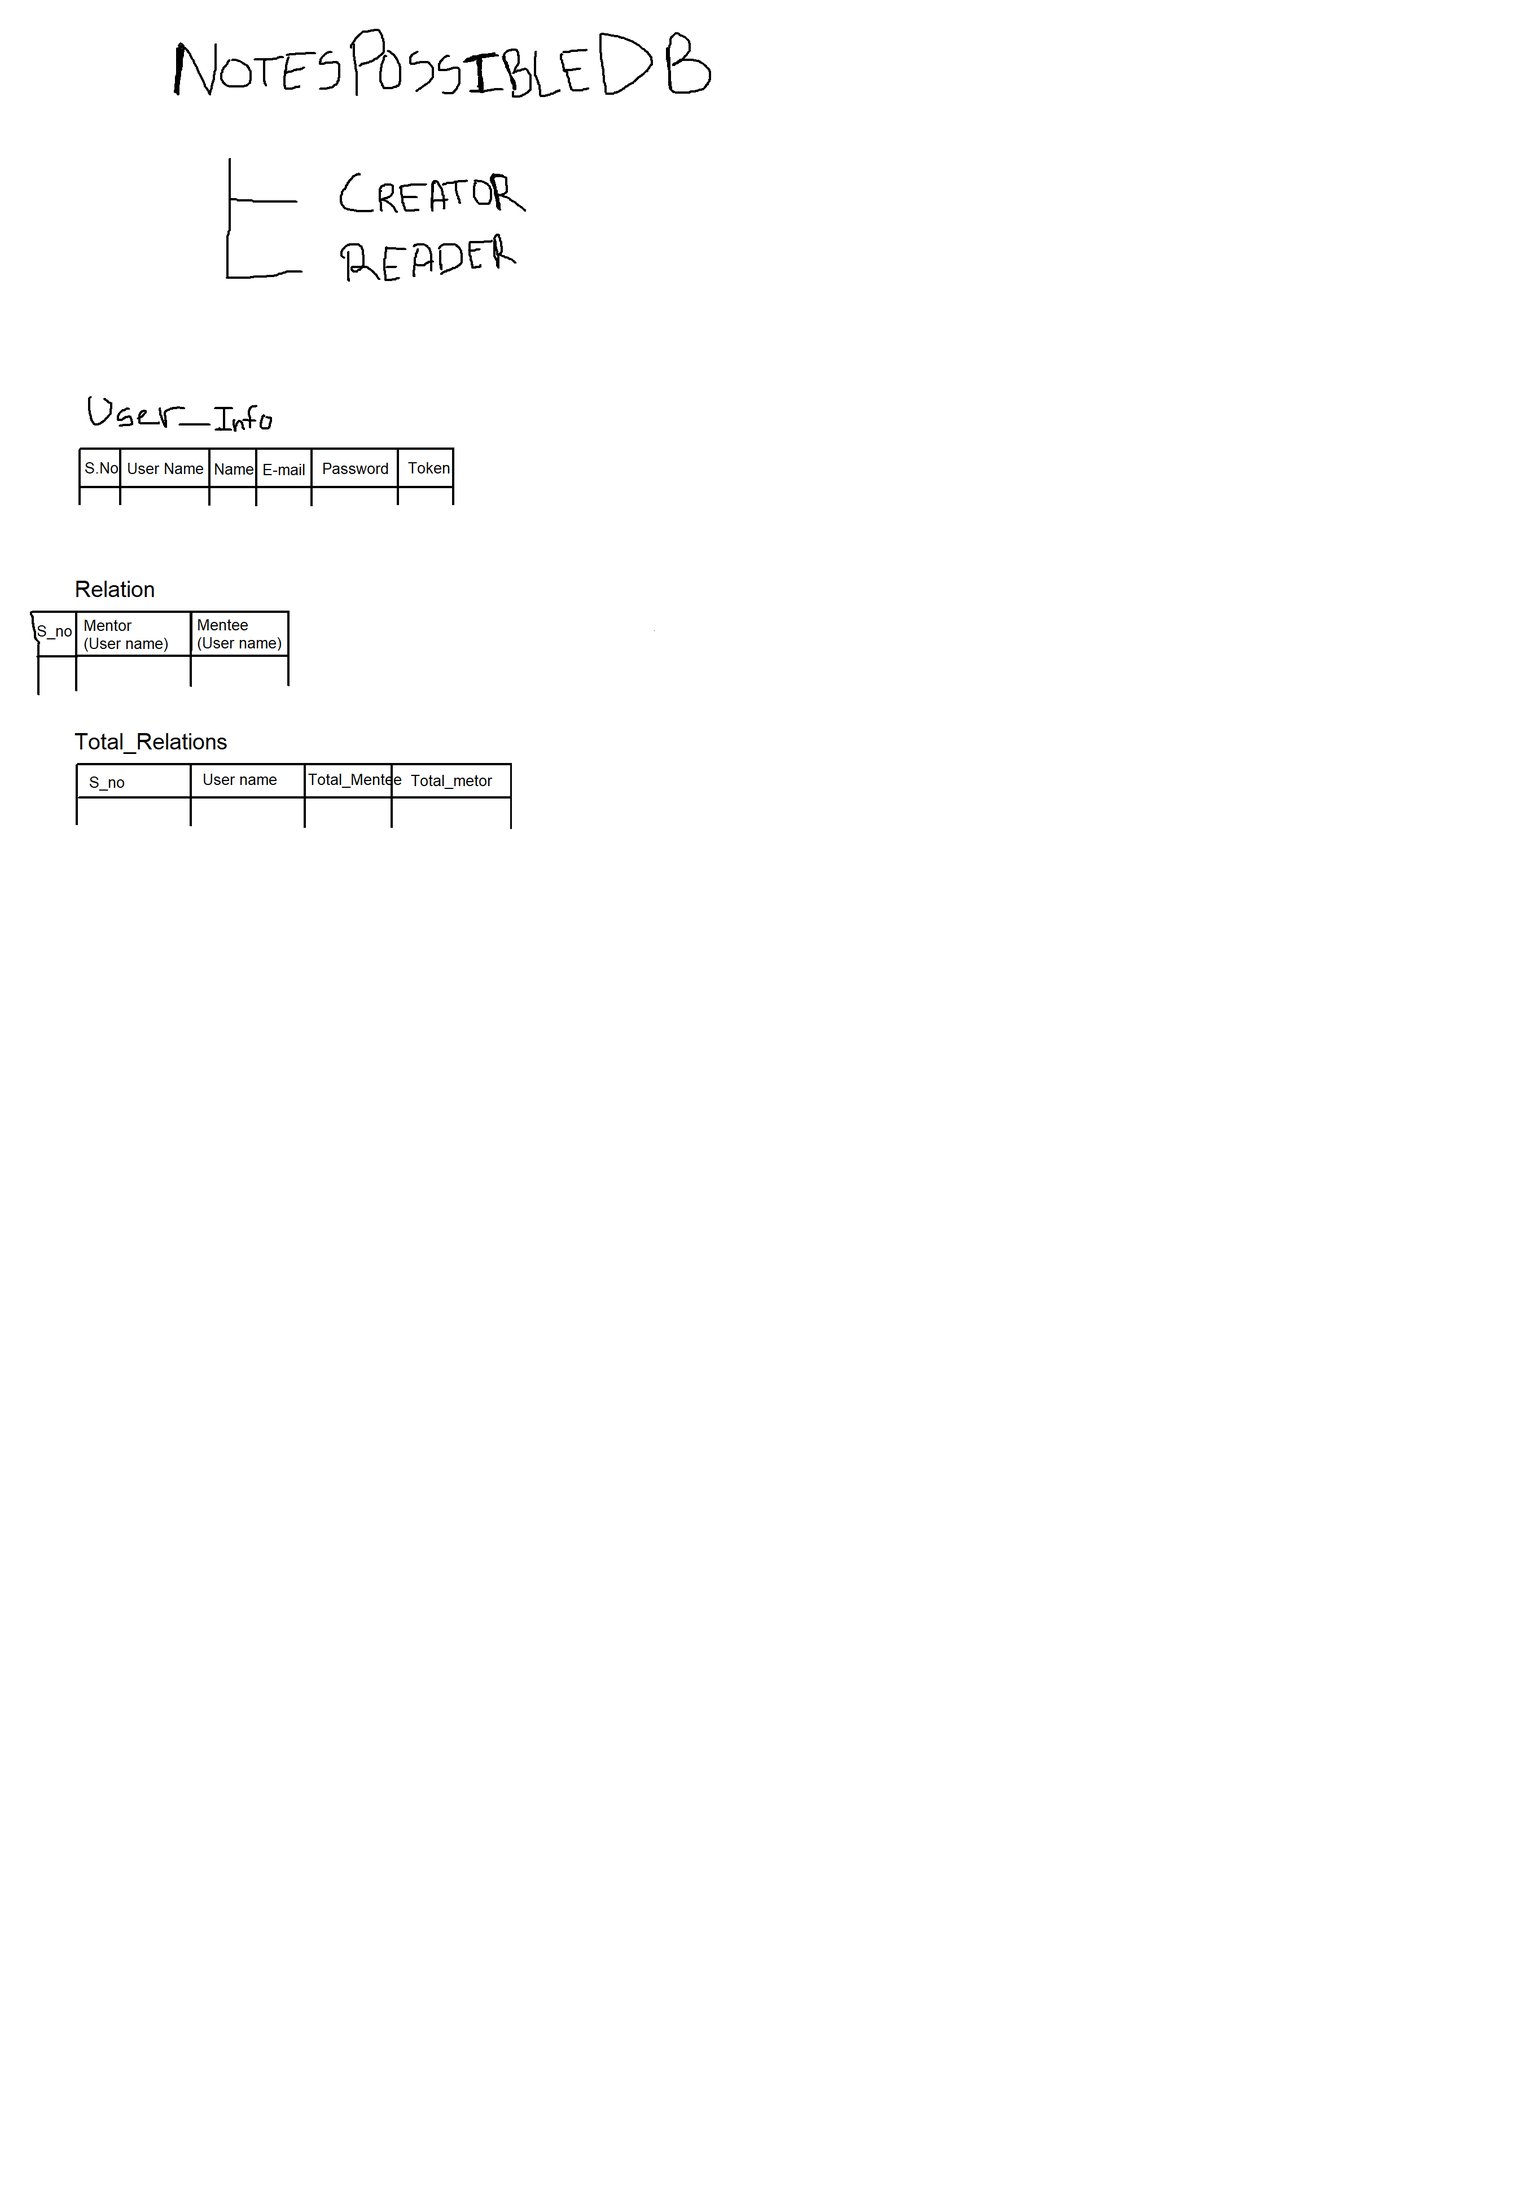
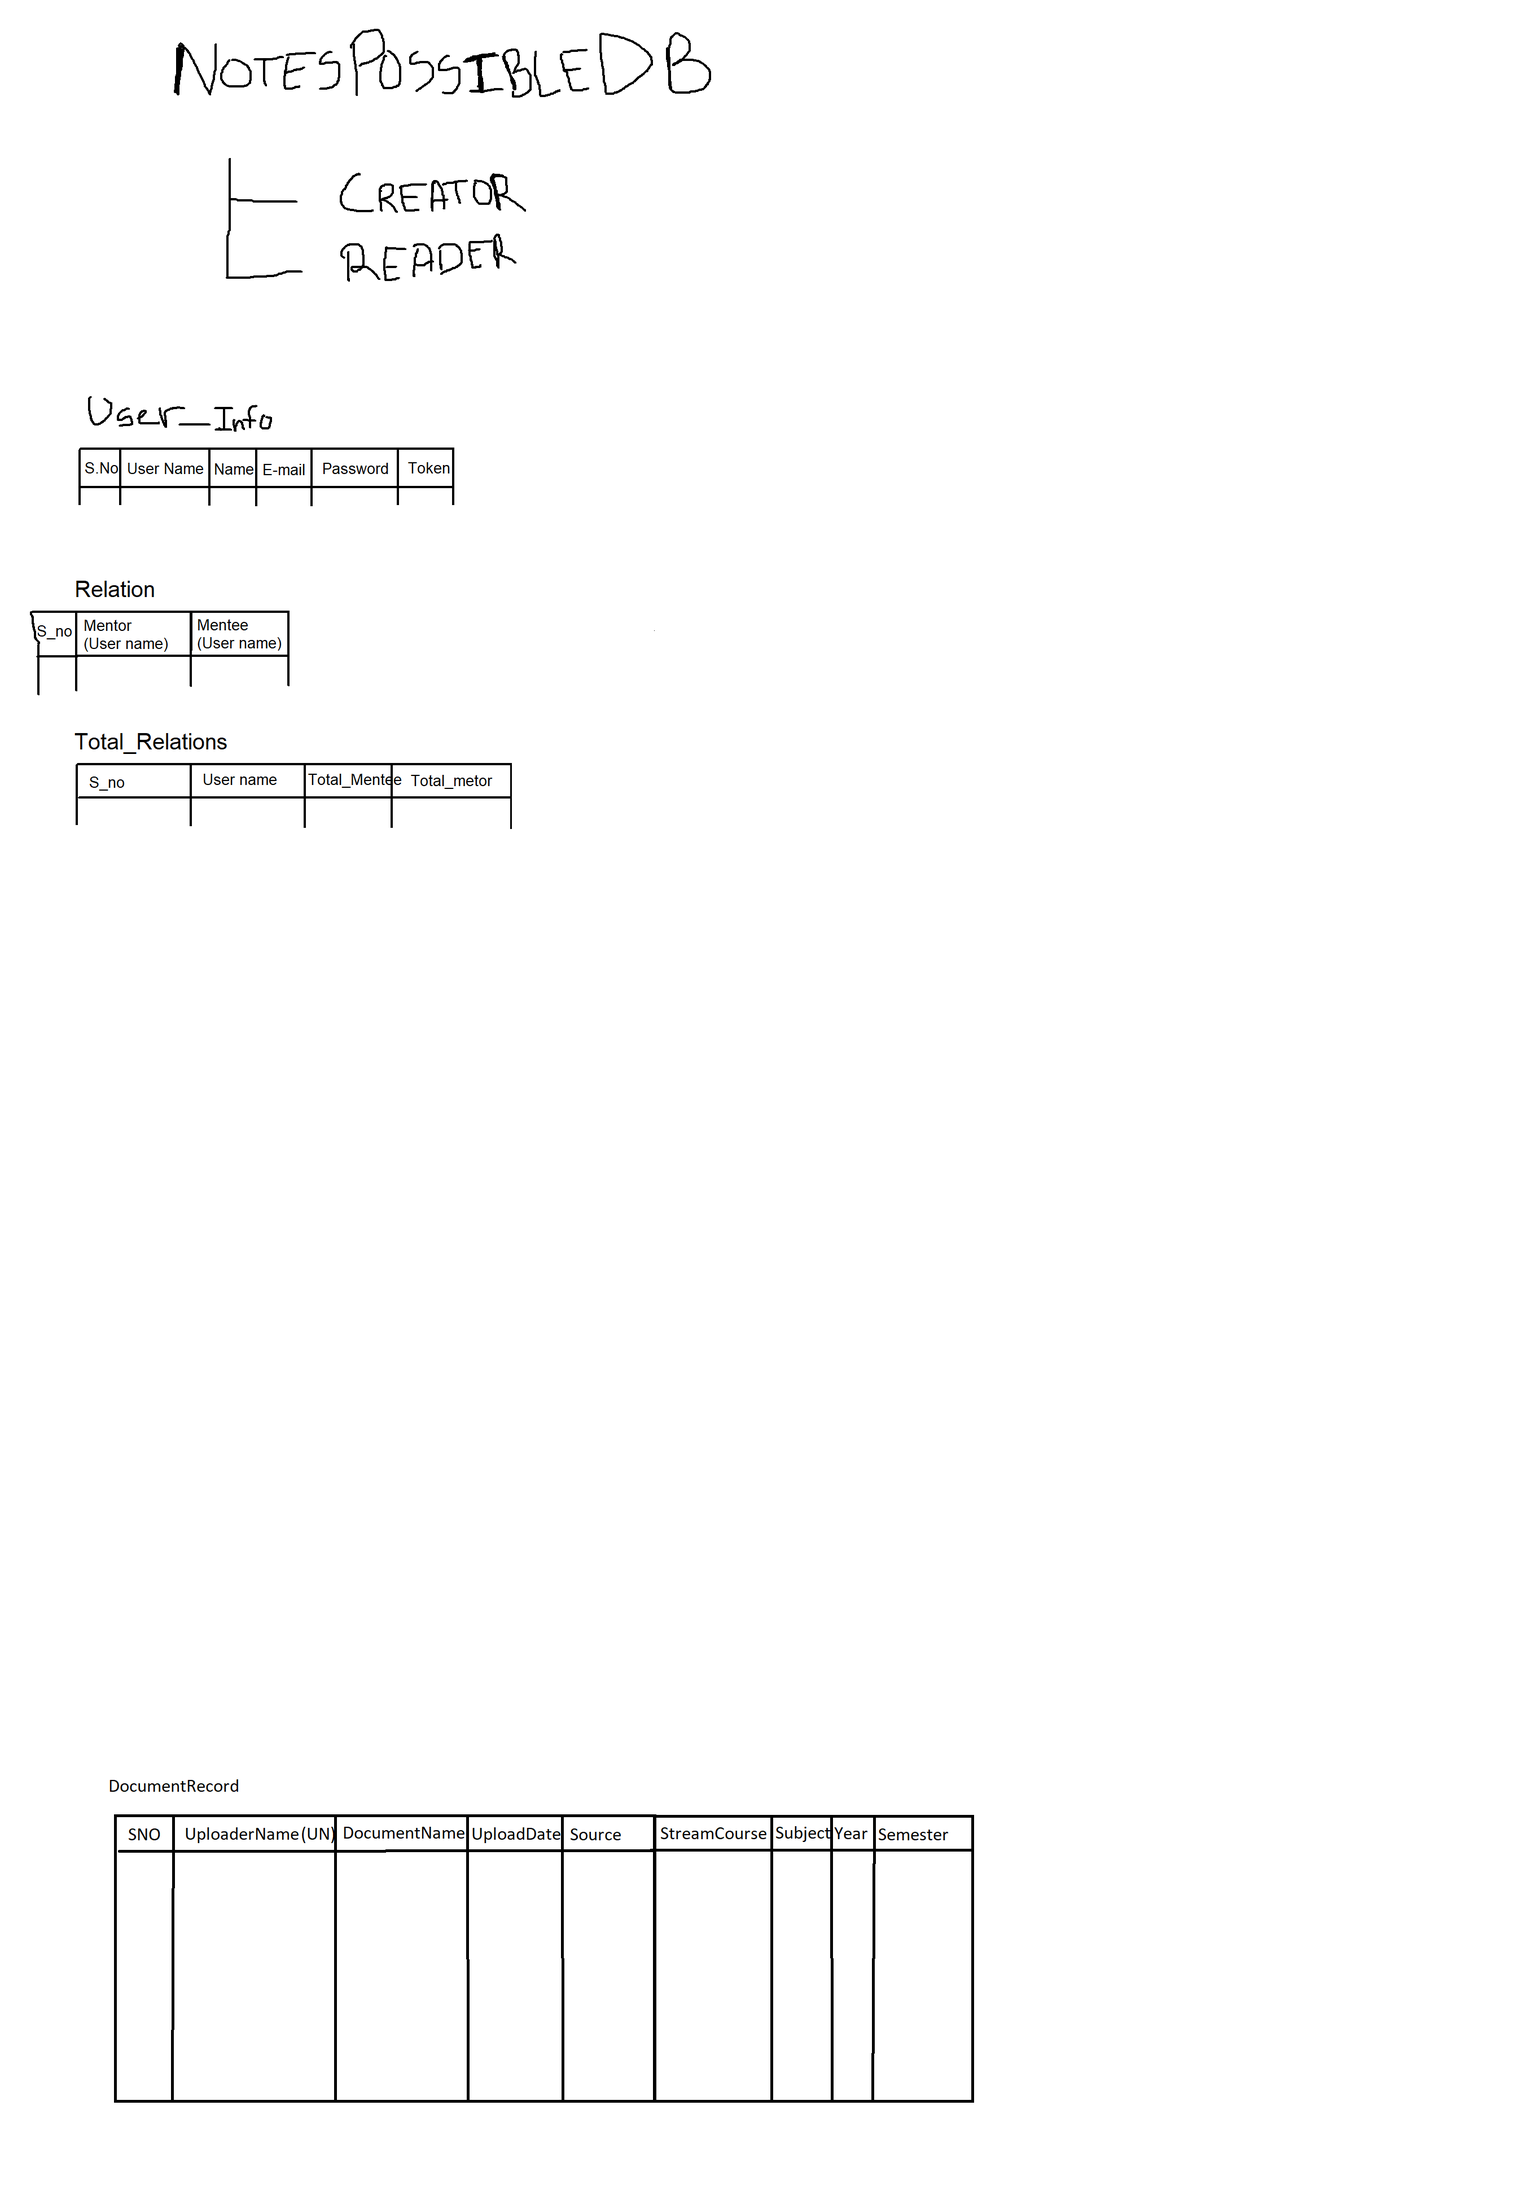
I have added DocumentUpload.html and amke some changes in main.py and Home.html

Changed region(s): [[0.0625, 0.8096, 0.4062, 0.8407], [0.4375, 0.8096, 0.625, 0.8407], [0.4062, 0.8407, 0.4375, 0.8718]]

diff --git a/templates/Home.html b/templates/Home.html
@@ -11,7 +11,7 @@
   <link href="https://cdn.jsdelivr.net/npm/bootstrap@5.0.0-beta1/dist/css/bootstrap.min.css" rel="stylesheet"
     integrity="sha384-giJF6kkoqNQ00vy+HMDP7azOuL0xtbfIcaT9wjKHr8RbDVddVHyTfAAsrekwKmP1" crossorigin="anonymous">
 
-  <link rel="stylesheet" href="Home.css">
+  <link rel="stylesheet" href="{{ url_for('static',filename='Css/Home.css') }}">
 
   <!-- JQuery -->
   <script src="https://ajax.googleapis.com/ajax/libs/jquery/3.5.1/jquery.min.js"></script>
@@ -20,25 +20,33 @@
 
 <body>
     <div class="TopBar">
-        <img src="Hamberger menu.svg" class="TopBarImages" id="hambergermenuimg" alt="">
-        <img src="Logo.svg" class="TopBarImages" id="logoimg" alt="">
+        <img src="{{ url_for('static',filename='Images/Hamberger menu.svg') }}" class="TopBarImages" id="hambergermenuimg" alt="">
+        <a href="/">
+            <img src="{{ url_for('static',filename='Images/Logo.svg') }}" class="TopBarImages" id="logoimg" alt="">
+        </a>
         <form action="#" id="SearchBar" >
           <input type="text" placeholder="Search..." id="SearchBarfield" >
           <button type="submit" class="d-flex justify-content-center" id="searchbutton">
-            <img src="find icon.svg" alt=""   id="searchbuttonimage"> 
+            <img src="{{ url_for('static',filename='Images/find icon.svg') }}" alt=""   id="searchbuttonimage">
           </button>
         </form>
+        {{session['name']}}
+
+        <button type="button" ><a href="/logout">Logout</a></button>
         <div class="TopBarImages" id="avtarimg">
-            <!-- DO NOT DELETE -->
+            <img src="{{session['profilepicture']}}" alt=""   id="profileimage">
         </div>
+        <button type="button" ><a href="/documentupload">Upload Document</a></button>
     </div>
     <div class="SideBar">
       <div class="parentbox p-0 ">
         <div class="container d-flex justify-content-center mt-5" >
-          <img src="home_icon.svg" class="sidebarimg" alt="">
+            <a href="/">
+                <img src="{{ url_for('static',filename='Images/home_icon.svg') }}" class="sidebarimg" alt="">
+            </a>
         </div>
         <div class="container d-flex justify-content-center mt-5">
-          <img src="subscription_icon.svg" class="sidebarimg" alt="">
+          <img src="{{ url_for('static',filename='Images/subscription_icon.svg') }}" class="sidebarimg" alt="">
         </div>
       </div>    
     </div>
@@ -47,18 +55,13 @@
       <!-- <div class="info-card col-1 col-sm-6 col-md-4 col-lg-2 m-2">
         
       </div> -->
-
+      {% for item in data %}
       <div class="info-card d-flex justify-content-center mx-3 my-2">
-        <img src="doc_icon.svg" alt="" class="DocTypeImage">
-        <span class="DocName"> Name of the Document </span>
+        <img src="{{ url_for('static',filename='Images/doc_icon.svg') }}" alt="" class="DocTypeImage">
+        <span class="DocName"> {{item.DocumentName}} <br> {{item.UploadDate}} </span>
 
       </div>
-
-      <div class="info-card d-flex justify-content-center mx-5 my-2">
-        <img src="doc_icon.svg" alt="" class="DocTypeImage">
-        <span class="DocName"> Name of the Document </span>
-
-      </div>
+        {% endfor %}
 
     </div>
 
@@ -76,7 +79,7 @@
     </div> 
     -->
 
-    <script type="text/javascript" src="Home.js"></script>
+    <script type="text/javascript" src="{{ url_for('static',filename='Js/Home.js') }}"></script>
 
 </body>
 </html>

diff --git a/templates/LoginSignUp.html b/templates/LoginSignUp.html
@@ -11,7 +11,7 @@
   <link href="https://cdn.jsdelivr.net/npm/bootstrap@5.0.0-beta1/dist/css/bootstrap.min.css" rel="stylesheet"
     integrity="sha384-giJF6kkoqNQ00vy+HMDP7azOuL0xtbfIcaT9wjKHr8RbDVddVHyTfAAsrekwKmP1" crossorigin="anonymous">
 
-  <link rel="stylesheet" href="LoginSignUp.css">
+  <link rel="stylesheet" href="{{ url_for('static',filename='Css/LoginSignUp.css') }}">
 </head>
 
 
@@ -20,12 +20,12 @@
     <div class="col-12 col-md-5 SignUp-Box mb-5">
       <h1 class="Form-Heading">SignUp</h1>
       <div class="FormBody">
-        <img class="col-12 col-md-5 FormBG SignUpBG" src="Signup_BG.svg" alt="">
+        <img class="col-12 col-md-5 FormBG SignUpBG" src="{{ url_for('static',filename='Images/Signup_BG.svg') }}" alt="">
         <form action="#">
 
           <div class="form-group col-12" style="margin-left:0px;">
             <label for="signup_full_name_input"> Full Name </label>
-            <input type="text" class="form-control" id="signup_first_name_input" placeholder="Your full name here...">
+            <input type="text" class="form-control" id="signup_full_name_input" placeholder="Your full name here...">
           </div>
 
           <div class="form-group col-12">
@@ -56,7 +56,7 @@
     <div class="col-12 col-md-5 Login-Box">
       <h1 class="Form-Heading">Login</h1>
       <div class="FormBody">
-        <img class="col-12 col-md-5 FormBG LogInBG" src="login_BG.svg" alt="">
+        <img class="col-12 col-md-5 FormBG LogInBG" src="{{ url_for('static',filename='Images/login_BG.svg') }}" alt="">
 
         <form action="#" method="#">
           <div class="form-group col-12">
@@ -76,8 +76,8 @@
   </div>
 
 
-  <!-- <img class="img-fluid Waves" id="wave-lower" src="login_signup lower wave.svg"> -->
-  <img class="img-fluid Waves" id="wave-upper" src="login_signup upper wave.svg">
+  <!-- <img class="img-fluid Waves" id="wave-lower" src="{{ url_for('static',filename='Images/login_signup lower wave.svg') }}"> -->
+  <img class="img-fluid Waves" id="wave-upper" src="{{ url_for('static',filename='Images/login_signup upper wave.svg') }}">
 
 
   <div class="BubbleLayer">

diff --git a/templates/Index.html b/templates/Index.html
@@ -11,7 +11,7 @@
   <link href="https://cdn.jsdelivr.net/npm/bootstrap@5.0.0-beta1/dist/css/bootstrap.min.css" rel="stylesheet"
     integrity="sha384-giJF6kkoqNQ00vy+HMDP7azOuL0xtbfIcaT9wjKHr8RbDVddVHyTfAAsrekwKmP1" crossorigin="anonymous">
 
-  <link rel="stylesheet" href="Index.css">
+  <link rel="stylesheet" href="{{ url_for('static',filename='Css/Index.css') }}">
 </head>
 
 <body>
@@ -24,17 +24,17 @@
         </div>
 
         <div class="Buttons col-12 ml-0 mt-5">
-          <a href="#" class="theme-btn col-12 col-md-5 mt-2">Login/ Signup</a>
+          <a href="LoginSignUp" class="theme-btn col-12 col-md-5 mt-2">Login/ Signup</a>
           <a href="#" class="theme-btn col-12 col-md-5 mt-2">Enter as guest</a>
         </div>
       </div>
 
       <div class="col-12 col-md-4 illustration-box mb-5">
-        <img class="img-fluid illustration" src="undraw_book_lover_mkck.svg" alt="">
+        <img class="img-fluid illustration" src="{{ url_for('static',filename='Images/undraw_book_lover_mkck.svg') }}" alt="">
       </div>
 
       <div class="BaseLayerWaves p-0">
-        <img class="img-fluid Waves" src="Waves_On_Bottom.svg">
+        <img class="img-fluid Waves" src="{{ url_for('static',filename='Images/Waves_On_Bottom.svg') }}">
          <!-- Do not Delete this div -->
       </div>
     </div>

diff --git a/templates/DocumentUpload.html b/templates/DocumentUpload.html
@@ -1,0 +1,33 @@
+<!DOCTYPE html>
+<html lang="en">
+<head>
+    <meta charset="UTF-8">
+    <title>Title</title>
+</head>
+<body>
+    <form Method="POST" action="/documentupload">
+        <label>Document Name</label>
+        <input type="text" name="DocumentName"><br>
+
+        <label>Source</label>
+        <input type="text" name="Source"><br>
+
+        <label>StreamCourse</label>
+        <input type="text" name="StreamCourse"><br>
+
+        <label>Subject</label>
+        <input type="text" name="Subject"><br>
+
+        <label>Year</label>
+        <input type="Number" name="Year"><br>
+
+        <label>Semester</label>
+        <input type="Number" name="Semester"><br>
+
+        <label>Upload Document</label>
+        <input type="file" name="UploadDocument"><br>
+
+        <button type="submit" name="Upload">Upload</button>
+    </form>
+</body>
+</html>

diff --git a/main.py b/main.py
@@ -1,25 +1,151 @@
-from flask import Flask
-
-
+from flask import Flask, render_template, redirect, session, request, url_for
+from authlib.integrations.flask_client import OAuth
+from flask_sqlalchemy import SQLAlchemy
+from sqlalchemy.sql import text
+import requests
 
 # insantiating Flask class object in variable "app" 
 app = Flask(__name__)
+app.config['SQLALCHEMY_DATABASE_URI'] = 'mysql+pymysql://root:@localhost/notes_possible_db'
+db = SQLAlchemy(app)
 
+class Userinfo(db.Model):
+    SNo = db.Column(db.Integer, primary_key=True)
+    Id = db.Column(db.String(50), unique=True)
+    #UserName = db.Column(db.String(30), unique=True)
+    Name = db.Column(db.String(50), unique=False)
+    #Email = db.Column(db.String(50), unique=True)
+    ProfilePicture = db.Column(db.Text, unique=False)
 
+class Documentrecord(db.Model):
+    SNo = db.Column(db.Integer, primary_key=True)
+    Id = db.Column(db.String, unique=False)
+    #UploaderUN = db.Column(db.String(), unique=False)
+    DocumentName = db.Column(db.String(), unique=False)
+    UploadDate = db.Column(db.String(), unique=False)
+    Source = db.Column(db.String(), unique=False)
+    StreamCourse = db.Column(db.String(), unique=False)
+    Subject = db.Column(db.String(), unique=False)
+    Year = db.Column(db.String(), unique=False)
+    Semester = db.Column(db.String(), unique=False)
+    Path = db.Column(db.String(), unique=False)
+    Extension = db.Column(db.String(), unique=False)
+
+class Relation(db.Model):
+    SNo = db.Column(db.Integer, primary_key=True)
+    UNMentor = db.Column(db.String(), unique=True)
+    UNMentee = db.Column(db.String(), unique=True)
+
+class totalrelation(db.Model):
+    SNo = db.Column(db.Integer, primary_key=True)
+    UserName = db.Column(db.String(), unique=True)
+    TotalMentor = db.Column(db.Integer)
+    TotalMentee = db.Column(db.Integer)
+
+app.secret_key = 'random secret'
+
+#oauth config
+oauth = OAuth(app)
 
 @app.route('/')
 def index():
-    return "Hello BSDK Flask chal raha h"
+    #email = dict(session).get('email', None)
+    if session.get("id") is None:
+        return render_template('index.html')
+    else:
+        fetch = Documentrecord.query.filter_by(Id=session['id']).all()
+        return render_template('Home.html', data=fetch)
+@app.route('/LoginSignUp')
+def LoginSignUp():
+    # return "Hello"
+
+    if request.args.get("next"):
+        session["next"] = request.args.get("next")
+    return redirect(
+
+        f"https://accounts.google.com/o/oauth2/v2/auth?scope=https://www.googleapis.com/auth/userinfo.profile&access_type=offline&include_granted_scopes=true&response_type=code&redirect_uri=http://127.0.0.1:5000/authorize&client_id=891944377515-bg8r7phbmiolc8bb29jiqkf9rjnp4e4s.apps.googleusercontent.com")
 
 
+@app.route('/authorize')
+def authorize():
+
+    r = requests.post("https://oauth2.googleapis.com/token", data = {
+    "client_id" : '891944377515-bg8r7phbmiolc8bb29jiqkf9rjnp4e4s.apps.googleusercontent.com',
+    "client_secret" : 'P9cqAQy9HuzoarRKuwQv3kiG',
+    "code" : request.args.get("code"),
+    "grant_type" : "authorization_code",
+    "redirect_uri" : "http://127.0.0.1:5000/authorize",
+    })
+    access_token = r.json()['access_token']
+    #print(access_token)
+    r = requests.get(f"https://www.googleapis.com/oauth2/v2/userinfo?access_token={access_token}")
+
+    #connection = db.session.connection()
+    print(r.json())
+
+    result = Userinfo.query.filter_by(Id=r.json()['id']).all()
+    resulttype = type(result)
+    result = len(result)
+    print(resulttype)
+    print(result)
+    def set_session():
+        #session['username'] = (r.json()['email']).split('@')[0]
+        session['id'] = r.json()['id']
+        session['name'] = r.json()['name']
+        #session['email'] = r.json()['email']
+        session['profilepicture'] = r.json()['picture']
+        return redirect(url_for('index'))
+
+    if(result>=1):#result==1 waali condition use krna hai!
+        return (set_session())
+    else:
+        #entry = Userinfo(UserName = (r.json()['email']).split('@')[0], Name = r.json()['name'], Email = r.json()['email'], ProfilePicture = r.json()['picture'])
+        entry = Userinfo(Id = r.json()['id'], Name = r.json()['name'], ProfilePicture = r.json()['picture'])
+        db.session.add(entry)
+        db.session.commit()
+        return (set_session())
+        #return Userinfo.query.filter_by(Email='rohantelang10@gmail.com').all() #clean up
+    #user_info = resp.json()
+    # do something with the token and profile
+    # session['email'] = user_info['email']
+    #
+    #
+    # return redirect('/')
+    #print("Response here")
+    #print(resp.json())
+    # return "Authorize me aa gaya"
+
+@app.route('/documentupload', methods=['GET', 'POST'])
+def documentupload():
+    if not session.get("id") is None:
+        if request.method == 'POST':
+            Id = session['id']
+            #UploaderUN = session['']
+            DocumentName = request.form['DocumentName']
+            Source = request.form['Source']
+            StreamCourse = request.form['StreamCourse']
+            Subject = request.form['Subject']
+            Year = request.form['Year']
+            Semester = request.form['Semester']
+            Path = request.form['UploadDocument']
+            if Path.split(".")[-1].lower() in ['doc', 'docx', 'txt', 'ppt', 'pptx', 'pdf']:
+                Extension = Path.split(".")[-1]
+
+                entry = Documentrecord(Id=Id, DocumentName=DocumentName, Source=Source, StreamCourse=StreamCourse, Subject=Subject, Year=Year, Semester=Semester, Path=Path, Extension=Extension)
+                db.session.add(entry)
+                db.session.commit()
+                return redirect(url_for('documentupload'))
+            else:
+                return "Please upload one of this extension file 'doc', 'docx', 'txt', 'ppt', 'pptx', 'pdf'"
+        return render_template('DocumentUpload.html')
 
 
+@app.route('/logout')
+def logout():
+    for key in list(session.keys()):
+        session.pop(key)
+    return redirect('/')
 
-
-
-
-
-
-
-
-app.run()
+if __name__ == '__main__':
+    app.debug = True
+    app.run()
